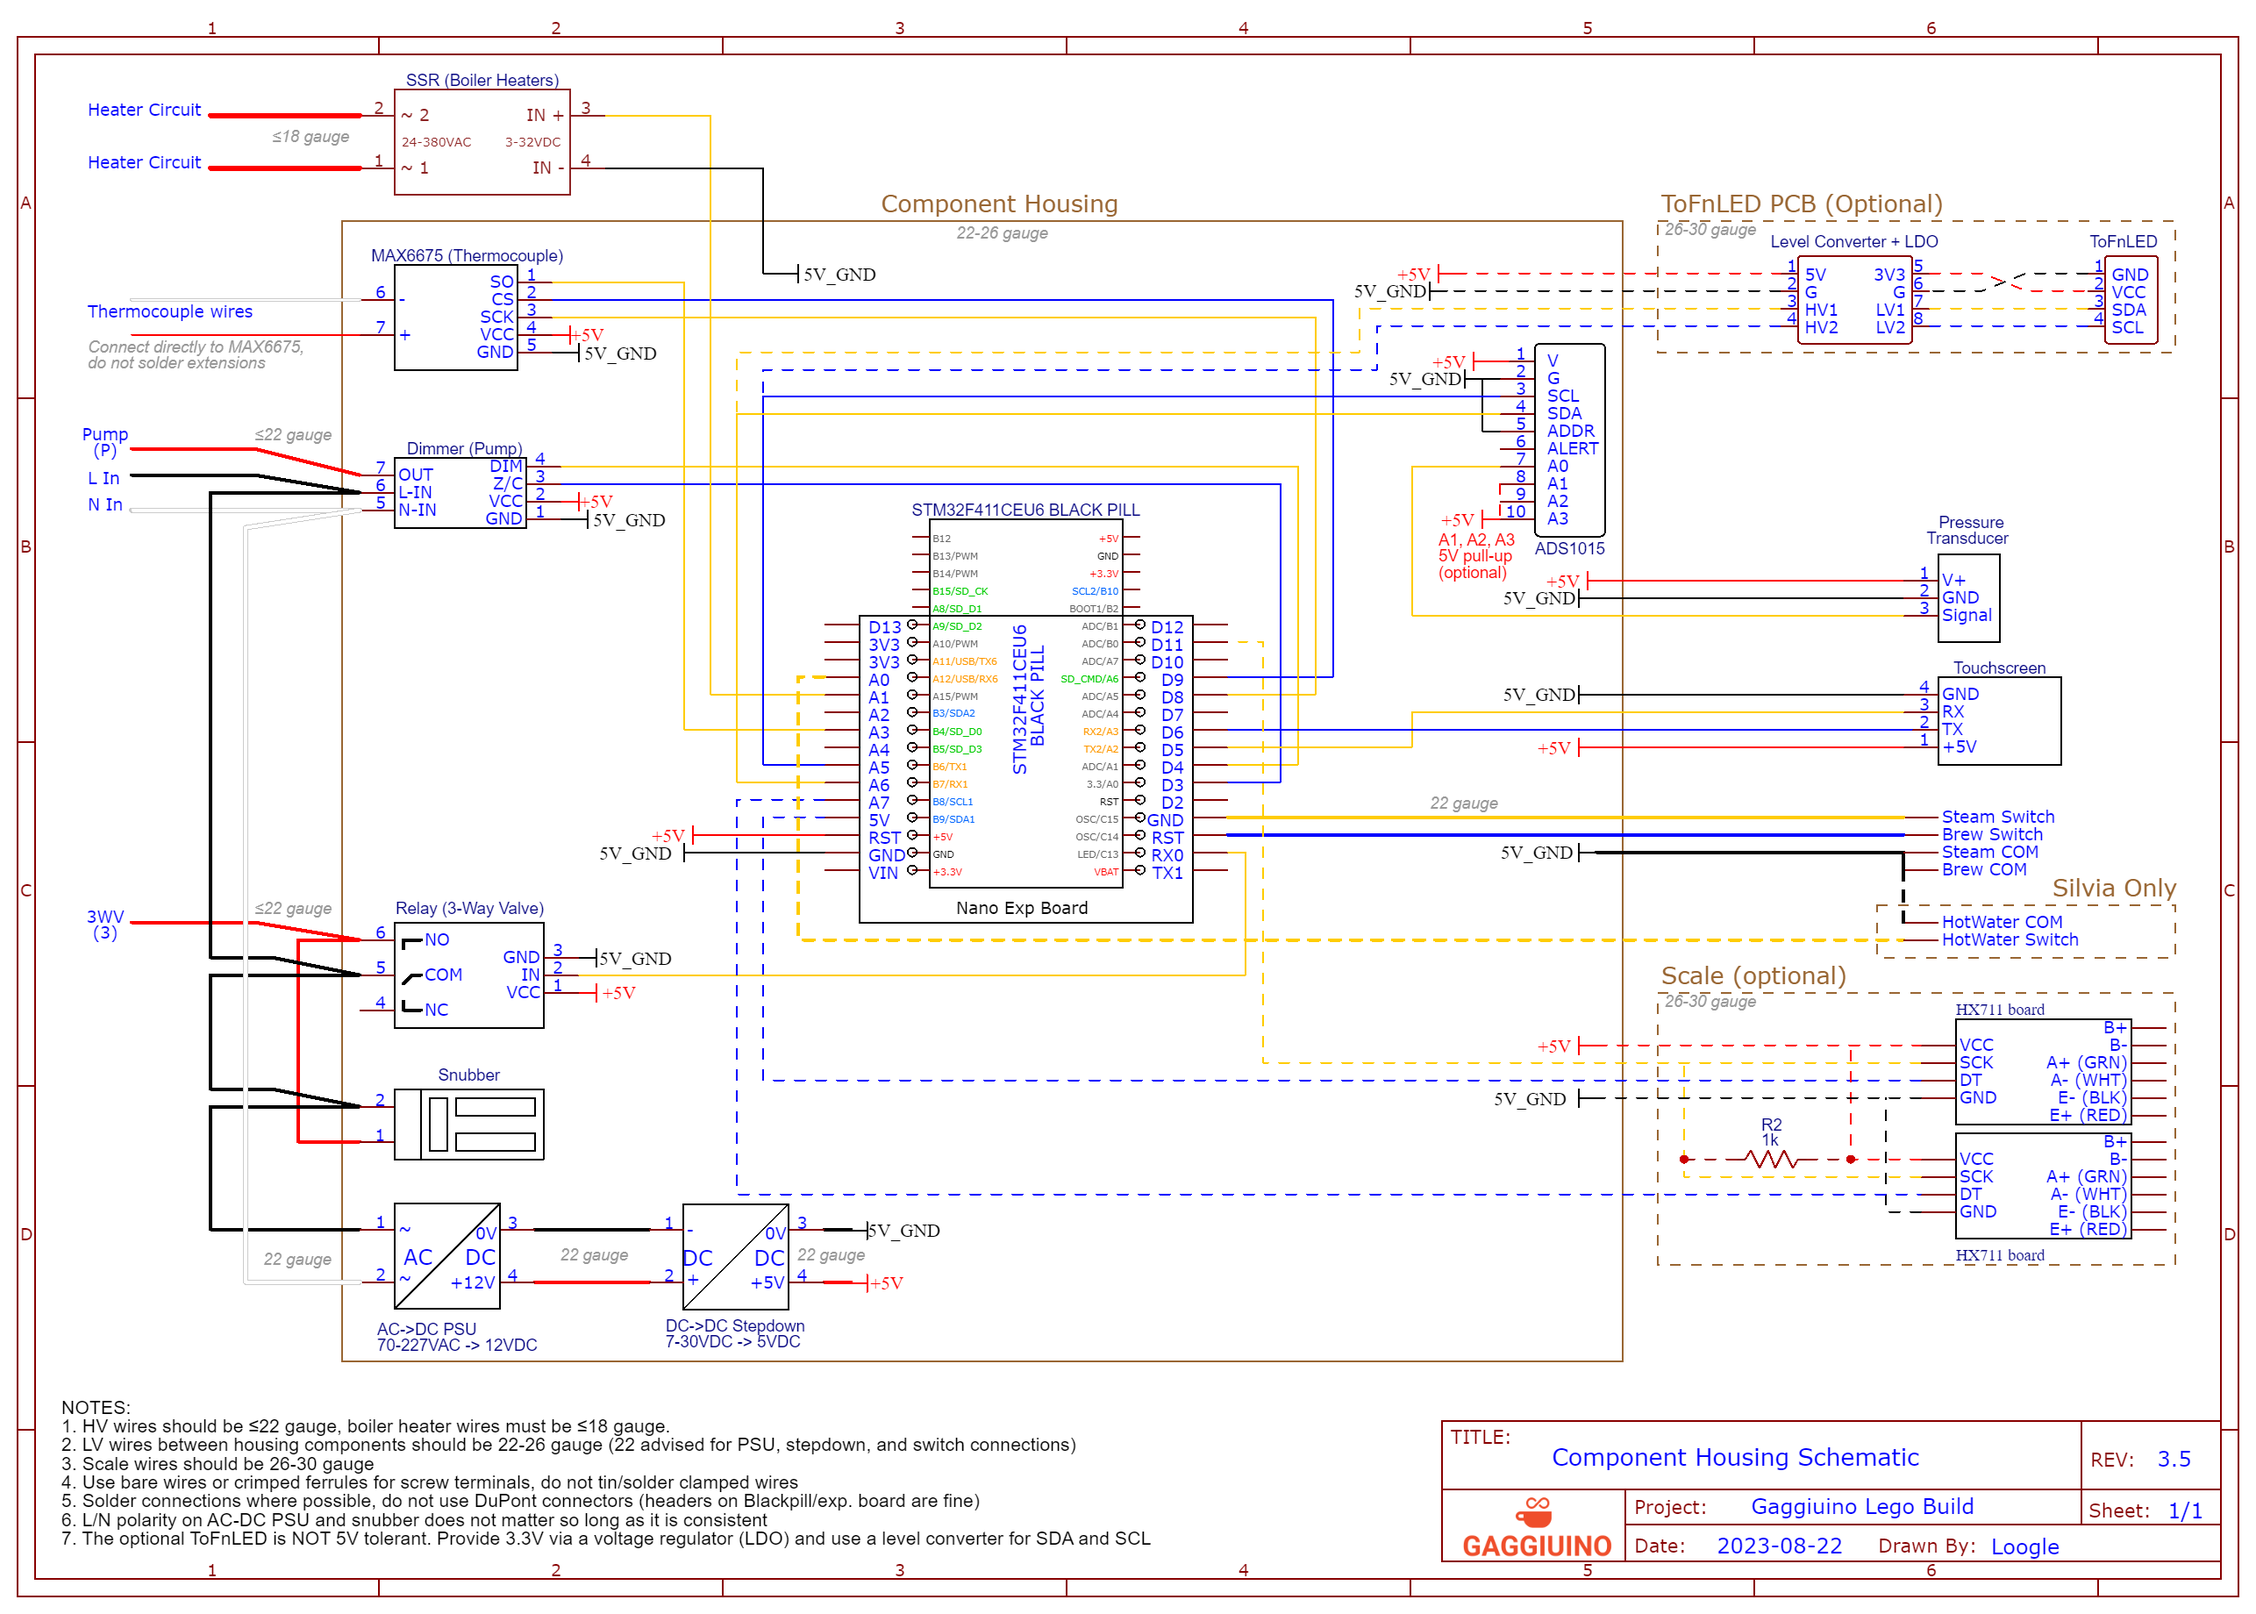
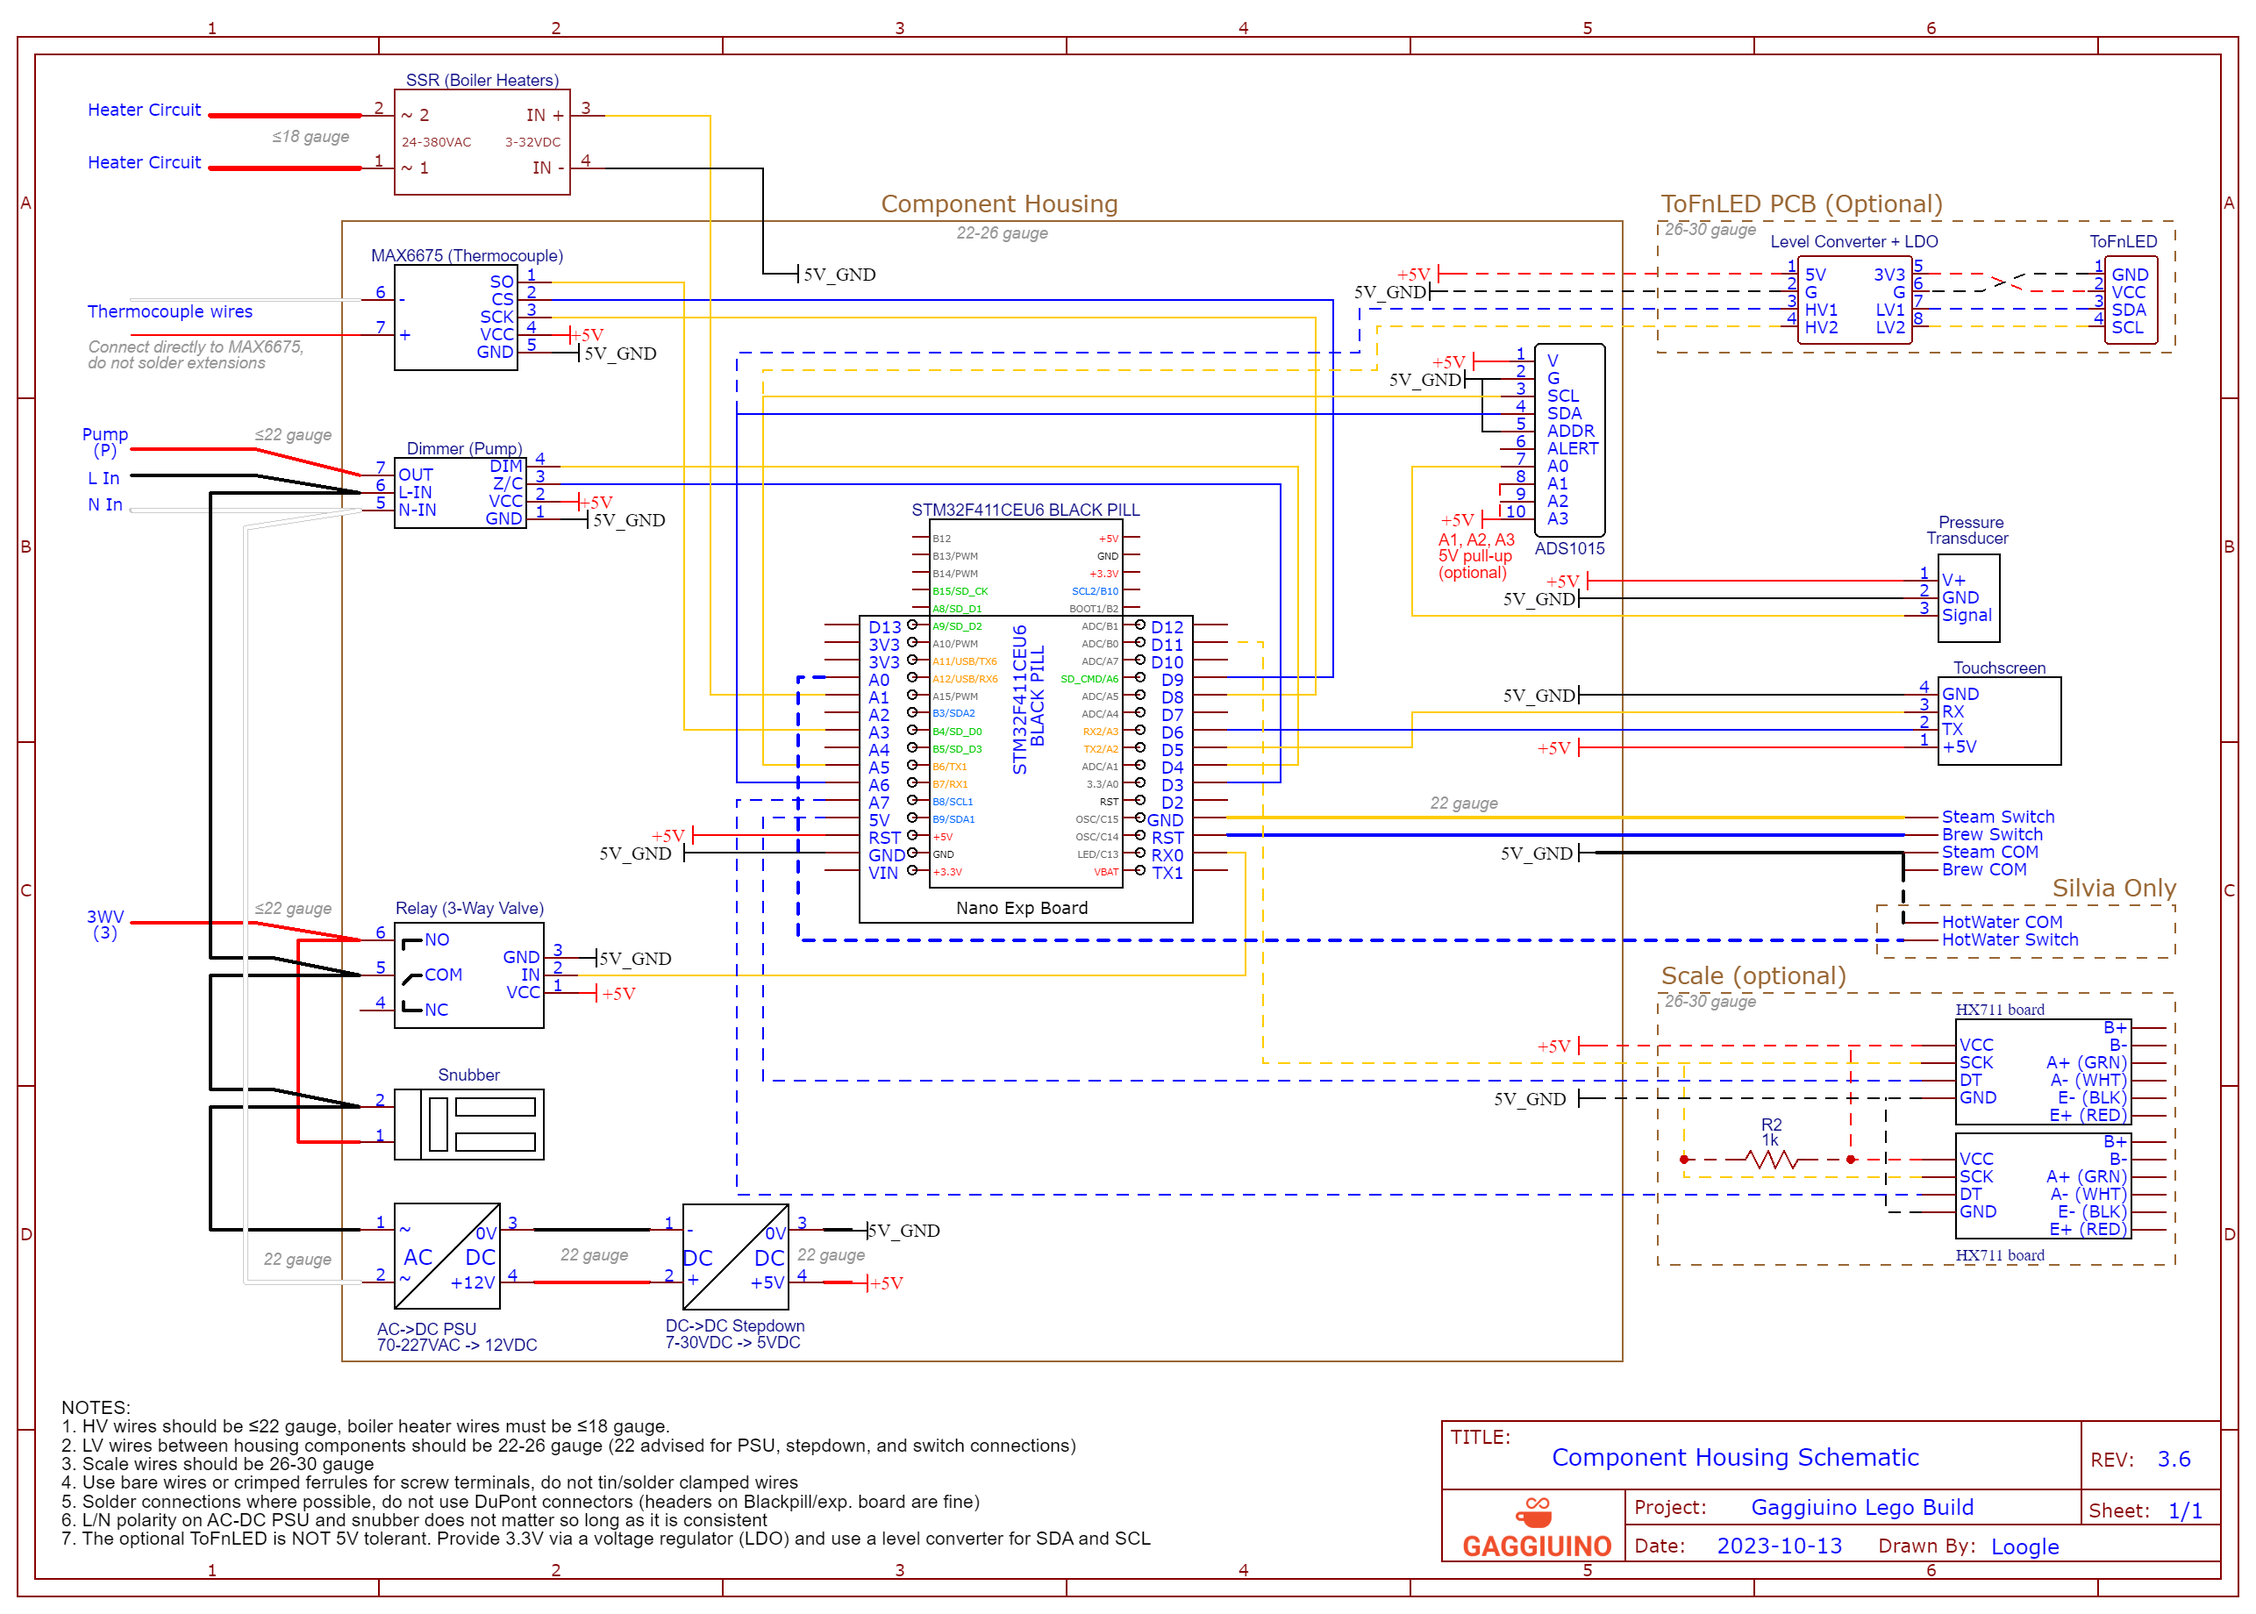
Update ToFnLED page to add Qwiic pinout, change schematic colors so yellow/blue follow Qwiic color standard

Changed region(s): [[0.7776, 0.9293, 0.8087, 0.9603], [0.6221, 0.2168, 0.6532, 0.2478]]

diff --git a/docs/accessories/tofnled.md b/docs/accessories/tofnled.md
@@ -60,6 +60,10 @@ Cut off one Qwiic connector from the cable and solder it and the wires back to t
 
 <img width="600" alt="image" src="schematics/stm32-comp-build.png">
 
+Connector wiring is Qwiic standard
+
+<img width="300" alt="https://cdn.sparkfun.com/assets/custom_pages/2/7/2/QwiicPinoutGraphic.jpg" src="https://user-images.githubusercontent.com/117388662/275014009-196a8bbe-da9e-4f45-be38-e82e9292c1a5.png">
+
 Once soldered cover with heat shrink tubing. 
 
 <img width="600" alt="image" src="https://user-images.githubusercontent.com/117388662/256456847-fcb44efb-4e87-4b8b-b4f2-4a47d036ccf5.png">
